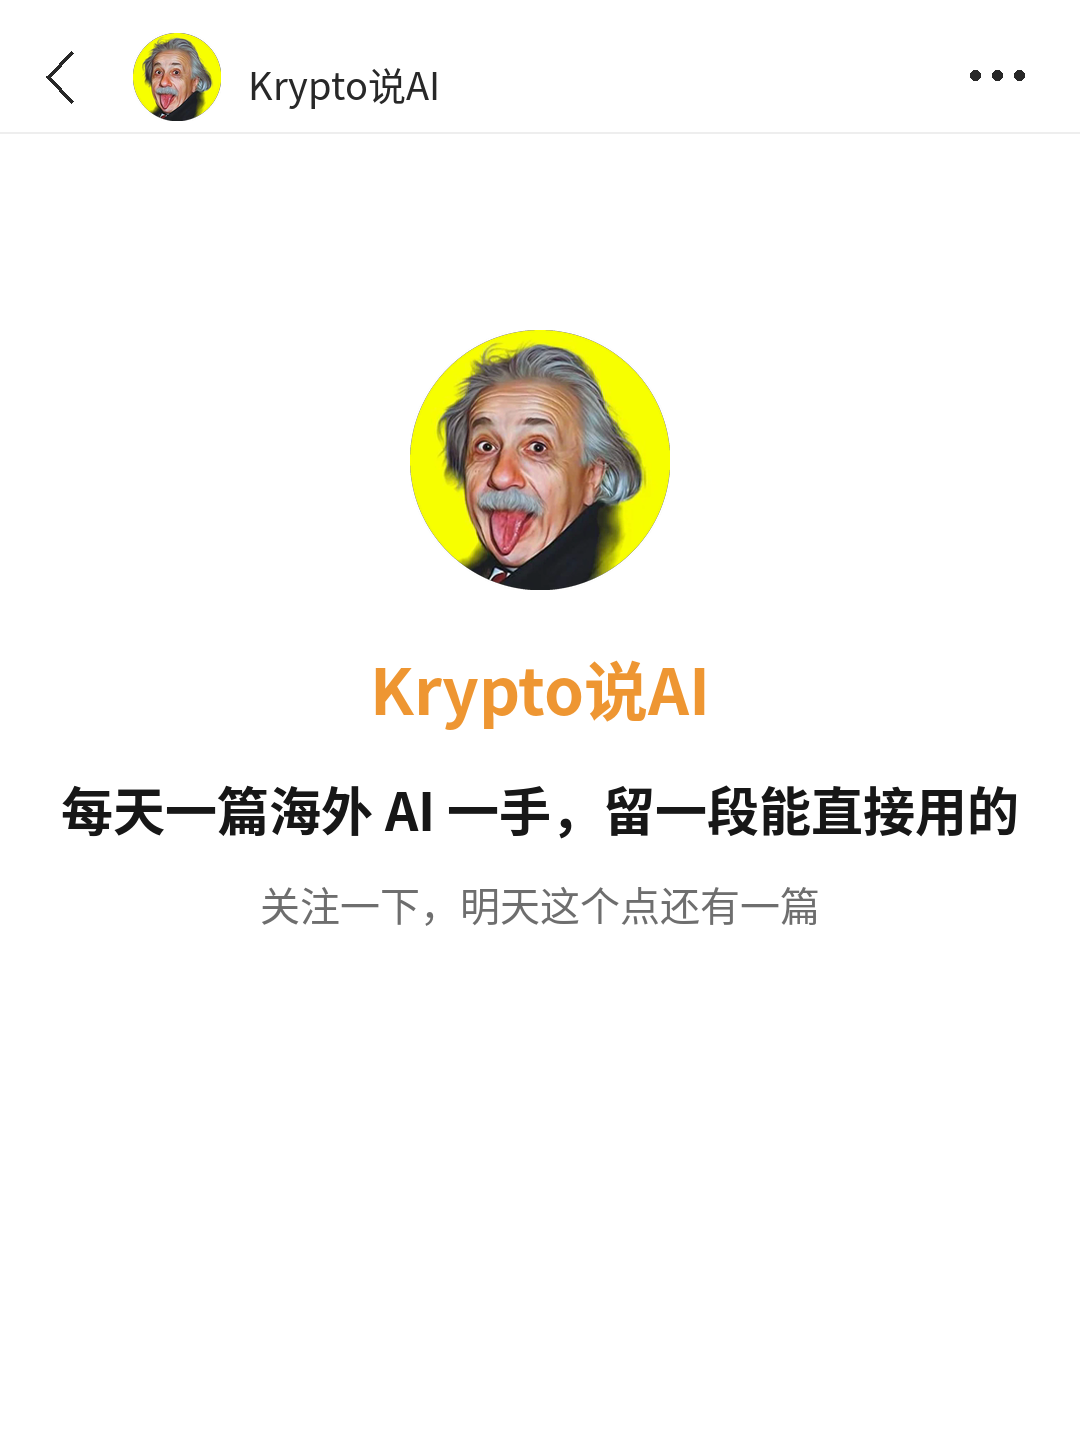
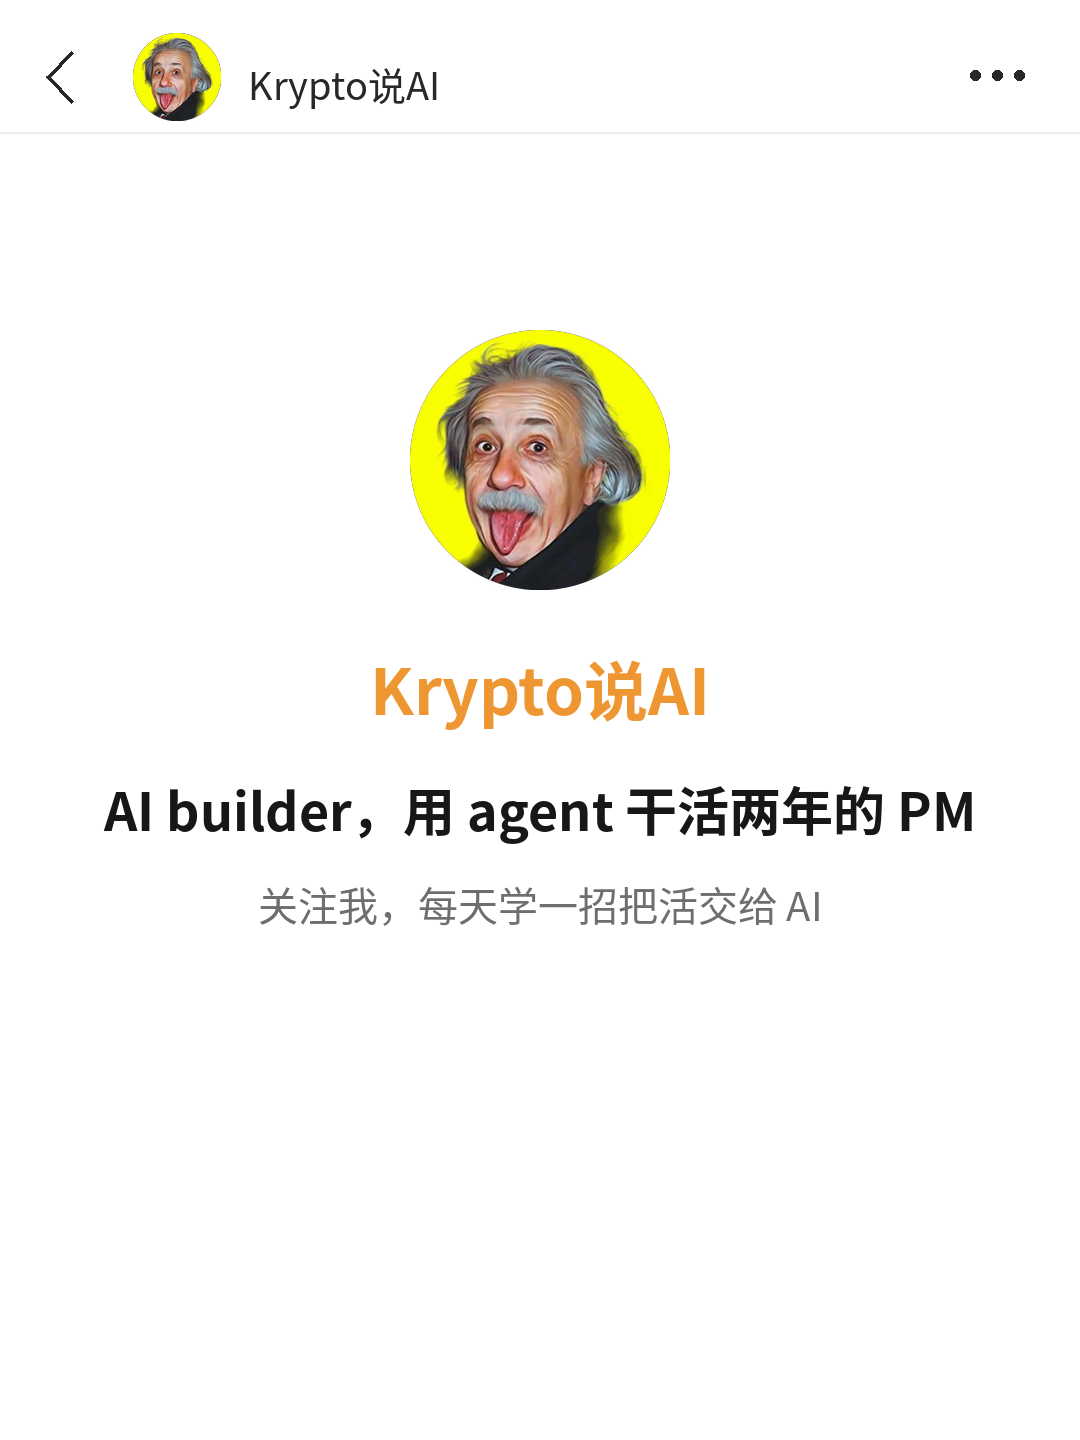
名片卡按 AI builder 定位重写（用户 10-09）
Claude-Session: https://claude.ai/code/session_015PCFAaTRLY2GD1Se7DV5ug

Changed region(s): [[0.0611, 0.5312, 0.9472, 0.6562]]

diff --git a/skills/meme-xhs/scripts/render_meme.py b/skills/meme-xhs/scripts/render_meme.py
@@ -55,7 +55,7 @@ BLACK, GREY, NAME_ORANGE, LINE = (23, 23, 23), (170, 170, 170), (238, 150, 50), 
 NO_START = "，。、；：？！）」』”’》〉%…·"
 NO_END = "《「『“‘（〈"
 YELLOW, KICKER_GREY = (255, 224, 61), (110, 110, 110)
-CARD, CARD_NOTE = "每天一篇海外 AI 一手，留一段能直接用的", "关注一下，明天这个点还有一篇"   # 10-09 用户定：名片卡改成关注 CTA，第二行给关注理由；不空喊求关注
+CARD, CARD_NOTE = "AI builder，用 agent 干活两年的 PM", "关注我，每天学一招把活交给 AI"   # 10-09 用户定：名片卡按 AI builder 定位写，第二行是关注 CTA；不写「海外一手」这种分析别人的话
 COVER_CAP, COVER_CAP_NOIMG = 150, 175      # 封面大字字号上限：有插图 / 没插图
 DARK_MEAN, DARK_SHARE = 70, 0.70           # 封面插图：平均亮度低于 70 或深色像素超过七成，缩略图里是一块黑
 HERE = os.path.dirname(os.path.abspath(__file__))

diff --git a/skills/meme-xhs/SKILL.md b/skills/meme-xhs/SKILL.md
@@ -224,6 +224,6 @@ SendUserFile：`overview.jpg`、`标题.txt`、`标题备选.txt`、`正文.txt`
 ## 和账号其他规则的关系
 
 - 原号没有封面大字卡，第 1 页就是正文，本 skill 也一样（09-29 试过单独封面页，09-30 用户看后说太刻意，已恢复）。首页的钩子是 `headline` 和 `hero`，正文页版式不变。
-- **末页默认出名片卡**（09-29 起）：大头像、账号名、一句定位。09-30 用户定：名片卡和正文都**不写**「这个号由 AI 全权运营 / 后台数据每周公开」，也**不写**「评论区扣 1 领……」；领取物想给就在评论里直接给内容。依据：09-22 至 09-28 一周观看 964、主页访客 67、涨粉 5，读者读完在笔记里看不到关注的理由。定位句用 `card` 改，第二行用 `card_note` 改，`card: off` 不出名片卡。名片卡 10-09 起放关注 CTA（定位句 + 「关注一下，明天这个点还有一篇」，用户定），不预告具体选题。原号没有 CTA，正文.txt 里的二选一问题默认不加。
+- **末页默认出名片卡**（09-29 起）：大头像、账号名、一句定位。09-30 用户定：名片卡和正文都**不写**「这个号由 AI 全权运营 / 后台数据每周公开」，也**不写**「评论区扣 1 领……」；领取物想给就在评论里直接给内容。依据：09-22 至 09-28 一周观看 964、主页访客 67、涨粉 5，读者读完在笔记里看不到关注的理由。定位句用 `card` 改，第二行用 `card_note` 改，`card: off` 不出名片卡。名片卡 10-09 起放关注 CTA（「AI builder，用 agent 干活两年的 PM」+「关注我，每天学一招把活交给 AI」，用户定，不写「海外一手」这类分析别人的话），不预告具体选题。原号没有 CTA，正文.txt 里的二选一问题默认不加。
 - 不预告下一期、不放链接、不写「我的看法：」「我的看法是 / 我的做法是」这类领起语（判断直接说），和账号其他栏目一致。
 - 用户要的是知识卡、漫画或 elsewhere 式长文精读时，用对应的 skill，不用这个。

diff --git a/CLAUDE.md b/CLAUDE.md
@@ -41,7 +41,7 @@
 - 不改写、不复述对标笔记的内容，只学结构
 - AI 起草的稿子，发布时按平台入口标注 AI 辅助；不代发、不自动评论私信
 - 不预告下一期；封面不放栏目期数
-- 关注引导（用户 2026-10-02，10-07 改，**10-09 改**）：图下 `正文.txt` 第一段照旧；**末页名片卡 10-09 起也放关注 CTA**（用户定）：定位句「每天一篇海外 AI 一手，留一段能直接用的」+ 第二行「关注一下，明天这个点还有一篇」，给理由不空喊，不预告具体选题；正文页上仍不放
+- 关注引导（用户 2026-10-02，10-07 改，**10-09 改**）：图下 `正文.txt` 第一段照旧；**末页名片卡 10-09 起也放关注 CTA**（用户定）：定位句「AI builder，用 agent 干活两年的 PM」+ 第二行「关注我，每天学一招把活交给 AI」（用户 10-09：「海外一手」一看就是在分析别人，要按 AI builder 定位写，让人想从我这学东西），给理由不空喊，不预告具体选题；正文页上仍不放
 
 ## 文件
 - `账号/档案.md`：定位卡、账号四件套、观点库、四轮访谈记录
